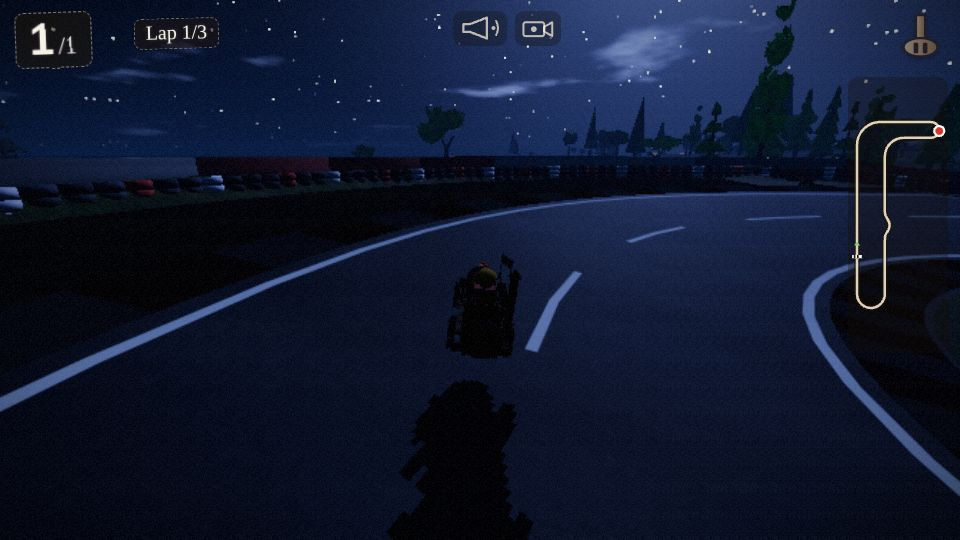
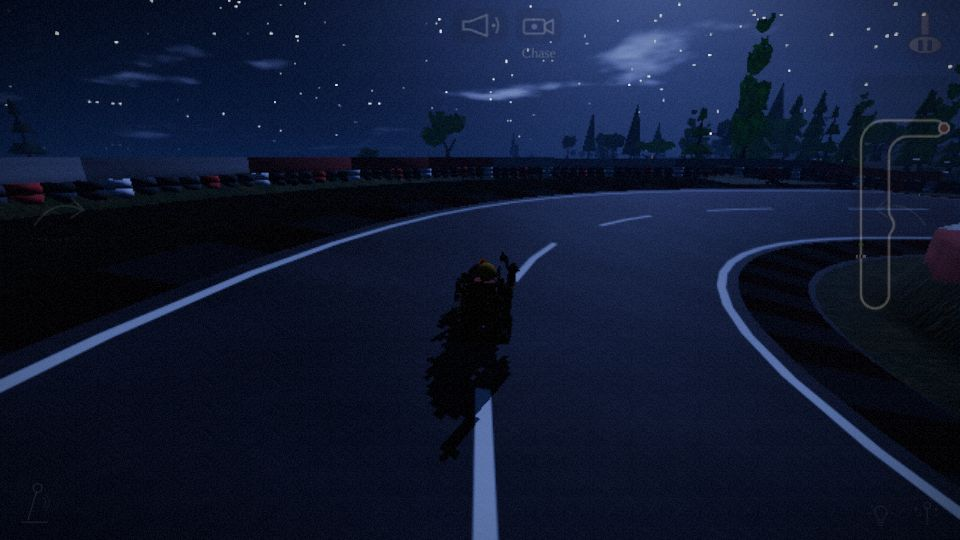
Map round 3: corn fixes (lane dish, props off wall zone, corn look, bays, mud) + WIP others
Claude-Session: https://claude.ai/code/session_01VQdijxiDxB1XrGopiSbUaQ

diff --git a/src/scene/tracks/village.js b/src/scene/tracks/village.js
@@ -69,7 +69,7 @@ export function planVillage(seed) {
         const pts = [[A0.px, A0.pz], [A.px, A.pz]];
         const nseg = 6;
         for (let k = 1; k < nseg; k++) {
-          const u = k / nseg, wig = pd.kind === 'alley' ? (k % 2 ? 3.5 : -3.5) * Math.sin(Math.PI * u) : 0;
+          const u = k / nseg, wig = pd.kind === 'alley' ? (k % 2 ? 2.2 : -2.2) * Math.sin(Math.PI * u) : 0;
           const bulge = amp * Math.sin(Math.PI * u) ** 1.3;
           pts.push([A.px + chord[0] * u + nx * (bulge + wig), A.pz + chord[1] * u + nz * (bulge + wig)]);
         }
@@ -86,7 +86,7 @@ export function planVillage(seed) {
         yFn: (s, x, z, total) => yMain(fromS + (clamp(s, 0, total) / total) * (toS - fromS)),
         widthFn: (s, kap, total) => lerp(MAIN_W, w0, smoothstep(0, 28, s) * smoothstep(0, 28, total - s)), camberFn: () => 0,
       });
-      road.surf = pd.kind === 'alley' ? { type: 'cobble', friction: 0.8, drag: 0.02, bump: 0.3 } : pd.kind === 'river' ? { type: 'cobble', friction: 0.86, drag: 0.0, bump: 0.1 } : { type: 'cobble', friction: 0.8, drag: 0.02, bump: 0.22 };
+      road.surf = pd.kind === 'alley' ? { type: 'cobble', friction: 0.95, drag: 0.0, bump: 0.08 } : pd.kind === 'river' ? { type: 'cobble', friction: 0.86, drag: 0.0, bump: 0.1 } : { type: 'cobble', friction: 0.8, drag: 0.02, bump: 0.22 };
       road.kind = pd.kind;
       branches.push({ road, splitId: sp.id, pathIndex, fromS, toS, name: pd.name, note: pd.note });
       for (let k = 0.3; k <= 0.7; k += 0.2) { road.atS(road.length * k, mq); builtMid.push([mq.px, mq.pz]); }
@@ -127,6 +127,13 @@ export function planVillage(seed) {
     }
   };
   main.field = createHazardField(main, seed + 11, { order: ['puddle', 'rock', 'puddle', 'stall', 'rock', 'puddle'], start: 190, startJit: 25, gap1: 55, gap2: 60, endGap: 110, stallEdge: true, noStall: SPLITS.flatMap((sp) => [[sp.fromS - 30, sp.fromS + 115], [sp.toS - 115, sp.toS + 30]]) });
+  main.field.zones.forEach((z, zi) => {   // main-street stalls: all props on ONE kerb side (a clear 4 m lane on the other) instead of a zig-zag chicane that trapped the AI
+    if (z.kind !== 'stall') return;
+    const side = zi % 2 ? 1 : -1;
+    for (const ob of z.obstacles) { ob.d = side * Math.abs(ob.d); ob.r *= 0.9; }
+    z.lateral = side * (z.hw - 1.0); z.b = 1.1;
+    const hh = main.field.hazards[zi]; hh.lateral = z.lateral; hh.halfWidth = z.b;
+  });
   addHaz(main, main.field);
   const softRocks = (f) => { for (const z of f.zones) if (z.kind === 'rock') { z.bump = 0.5; z.friction = 0.84; } };   // visible rubble, but not a speed trap
   softRocks(main.field);
@@ -137,12 +144,17 @@ export function planVillage(seed) {
         : { order: ['puddle', 'puddle', 'rock'], start: 45, startJit: 15, gap1: 60, gap2: 30, endGap: 40 };
     b.road.field = createHazardField(b.road, seed + 31 + b.road.id, opts);
     softRocks(b.road.field);
+    if (kind === 'alley') for (const z of b.road.field.zones) {   // gentle steps / rubble: a sloppy line must not stop the cart; the alley is the fast, direct route
+      if (z.kind === 'steps') { z.a = 3.2; z.stairH = 0.045; z.bump = 0.3; z.drag = 0.0; z.friction = 0.84; }
+      if (z.kind === 'rock') { z.bump = 0.35; z.friction = 0.86; z.drag = 0.02; }
+    }
     addHaz(b.road, b.road.field);
   }
 
   // ---- terrain verge: vertical kerb (0.13 m) + a short pavement, then a steep wall (house plinths / garden walls / parapets) ----
   const WALL = 2.1, OUT = 9, LOW = 0.9, LOWR = 0.5;   // LOWR: river-side parapet (low enough to see the water from the cockpit)
   const lowEdge = (road, s, sg) => {   // 0..1: how far the street edge is a low parapet instead of a full wall (market square middle third, river side)
+    if (!road.kind) return Math.max(1 - smoothstep(60, 80, s), smoothstep(LEN - 55, LEN - 35, s));   // start / finish straights: low wall, the crowd stands behind it
     if (road.kind === 'market') { const u = s / road.length; return smoothstep(0.2, 0.3, u) * (1 - smoothstep(0.7, 0.8, u)); }
     if (road.kind === 'river' && sg === road.riverSide) { const wr = road.waterRun; return wr ? smoothstep(wr[0] + 4, wr[0] + 28, s) * (1 - smoothstep(wr[1] - 28, wr[1] - 4, s)) : 0; }
     return 0;
@@ -477,12 +489,12 @@ export function planVillage(seed) {
       // loose cobbles / rubble scattered over bumpy "rock" and step zones
       for (const z of road.field.zones) {
         if (z.kind !== 'rock' && z.kind !== 'steps') continue;
-        const n = z.kind === 'rock' ? 22 : 5;
+        const n = z.kind === 'rock' ? 9 : 5;
         for (let i = 0; i < n; i++) {
           const ds = (rnd() - 0.5) * z.a * 1.4, dd = z.lateral + (rnd() - 0.5) * 2 * Math.min(z.b, road.atS(z.s, pp).hw) * 0.85;
           road.atS(z.s + ds, pp); const x = pp.px + pp.rhx * dd, zz = pp.pz + pp.rhz * dd, y = terrain.heightAt(x, zz);
-          const prog = road.map ? road.map.fromS + ((z.s + ds) / road.map.len) * (road.map.toS - road.map.fromS) : z.s + ds, sc = (z.kind === 'rock' ? 0.2 + rnd() * rnd() * 0.5 : 0.16 + rnd() * 0.2), g = 0.5 + rnd() * 0.32;
-          batchOf(prog).add('concrete', boxG(sc, sc * (z.kind === 'rock' ? 0.7 : 0.45), sc * 0.8, 1), xf(x, y + sc * (z.kind === 'rock' ? 0.18 : 0.1), zz, rnd() * 0.5, rnd() * 3, rnd() * 0.5), [g, g * 0.97, g * 0.92]);
+          const prog = road.map ? road.map.fromS + ((z.s + ds) / road.map.len) * (road.map.toS - road.map.fromS) : z.s + ds, sc = (z.kind === 'rock' ? 0.3 + rnd() * 0.32 : 0.16 + rnd() * 0.2), g = 0.42 + rnd() * 0.3;
+          batchOf(prog).add('concrete', z.kind === 'rock' ? sphG(sc * 0.62, 6, 4, 1) : boxG(sc, sc * 0.45, sc * 0.8, 1), z.kind === 'rock' ? xf(x, y + sc * 0.2, zz, rnd() * 0.6, rnd() * 3, rnd() * 0.6, 1, 0.75, 0.9) : xf(x, y + sc * 0.1, zz, rnd() * 0.5, rnd() * 3, rnd() * 0.5), [g, g * 0.97, g * 0.92]);
         }
       }
     }
@@ -516,8 +528,9 @@ export function planVillage(seed) {
     const bunt = (i) => ({ col: [[0.9, 0.2, 0.2], [0.95, 0.95, 0.9], [0.2, 0.4, 0.8], [0.95, 0.75, 0.2]][i % 4], wdt: 0.3, hgt: 0.45 });
     const upv = new THREE.Vector3(0, 1, 0), tmpV = new THREE.Vector3();
     const SPECT = [[0.85, 0.25, 0.2], [0.2, 0.4, 0.75], [0.9, 0.75, 0.2], [0.3, 0.6, 0.35], [0.85, 0.5, 0.7], [0.95, 0.95, 0.9], [0.45, 0.3, 0.2]];
+    let crowdSc = 0;
     function person(b, x, y, z, yaw, wave) {   // small static villager: legs/body, head, arms (one raised when waving)
-      const c = SPECT[Math.floor(rnd() * SPECT.length)], sc = 0.9 + rnd() * 0.2, M = xf(x, y, z, 0, yaw, 0, sc), L = (m) => M.clone().multiply(m);
+      const c = SPECT[Math.floor(rnd() * SPECT.length)], sc = (crowdSc || 0.9) + rnd() * 0.2 * (crowdSc ? 0.5 : 1), M = xf(x, y, z, 0, yaw, 0, sc), L = (m) => M.clone().multiply(m);
       b.add('dark', cylG(0.2, 0.26, 0.85, 6, 1), L(xf(0, 0.42, 0)), [0.2, 0.2, 0.28]);
       b.add('dark', cylG(0.24, 0.2, 0.6, 6, 1), L(xf(0, 1.15, 0)), c);
       b.add('dark', sphG(0.16, 6, 5, 1), L(xf(0, 1.6, 0)), [0.95, 0.76, 0.6]);
@@ -525,12 +538,14 @@ export function planVillage(seed) {
       if (wave) b.add('dark', boxG(0.09, 0.5, 0.09, 1), L(xf(0.33, 1.65, 0, 0, 0, -0.35)), c); else b.add('dark', boxG(0.09, 0.5, 0.09, 1), L(xf(0.3, 1.1, 0)), c);
     }
     const frameAt = (road, s) => { road.atS(s, pp); return { px: pp.px, py: pp.py, pz: pp.pz, hw: pp.hw, rx: pp.rhx, rz: pp.rhz, tx: pp.rhz, tz: -pp.rhx }; };
-    function crowd(sA, sB, step) {   // spectators on the wall tops behind the kerb, waving at the carts
+    function crowd(sA, sB, step) {
+      crowdSc = 0.82;   // spectators on the wall tops behind the kerb, waving at the carts
       for (const sg of [-1, 1]) for (let s = sA + rnd(); s < sB; s += step * (0.7 + rnd() * 0.6)) {
         const f = frameAt(main, s), d = sg * (f.hw + 1.45 + rnd() * 0.5), x = f.px + f.rx * d, z = f.pz + f.rz * d;
-        person(batchOf(s), x, f.py + WALL, z, Math.atan2(-sg * f.rx, -sg * f.rz) + (rnd() - 0.5) * 0.7, rnd() < 0.45);
+        person(batchOf(s), x, f.py + wallTop(main, s, sg), z, Math.atan2(-sg * f.rx, -sg * f.rz) + (rnd() - 0.5) * 0.7, rnd() < 0.45);
       }
     }
+    const crowdEnd = () => { crowdSc = 0; };
     function archAt(s, text, bg, fg) {
       const f = frameAt(main, s), b = batchOf(s), R = new THREE.Vector3(f.rx, 0, f.rz), T = new THREE.Vector3(f.tx, 0, f.tz);
       const M = new THREE.Matrix4().makeBasis(R, upv, T.clone().negate()).setPosition(f.px, f.py, f.pz), L = (m) => M.clone().multiply(m), half = f.hw + 0.75;
@@ -554,10 +569,10 @@ export function planVillage(seed) {
     }
     // start: gate beyond the front row, crowd on both walls, a house closing the view behind the grid
     archAt(32, 'START', '#f4f1e6', '#b3261e');
-    crowd(-30, 70, 1.6);
+    crowd(-30, 70, 1.6); crowdEnd();
     // finish: arch + banner + bigger crowd, town hall closing the view past the end of the street
     archAt(LEN, 'FINISH', '#f4f1e6', '#111111');
-    crowd(LEN - 45, LEN + 35, 1.3);
+    crowd(LEN - 45, LEN + 35, 1.3); crowdEnd();
     {
       const clo = (sEnd, dir, w, floors) => {   // building straddling the street axis just beyond the last road sample, front facing the street
         const f = frameAt(main, sEnd), T = new THREE.Vector3(f.tx, 0, f.tz).multiplyScalar(dir), R = new THREE.Vector3(f.rx, 0, f.rz).multiplyScalar(-dir);
@@ -682,8 +697,8 @@ export function planVillage(seed) {
           road.atS(sx, pp); const d = rs * (pp.hw + WB + 2.2), x = pp.px + pp.rhx * d, z = pp.pz + pp.rhz * d, y = pp.py - 0.5, b = batchOf(progOf(road, sx)), cl = reg.clear(x, z);
           if (cl < 2.5) continue;
           b.add('woodWeathered', cylG(0.22, 0.42, 3.4, 6, 1), xf(x, y + 1.7, z, 0, 0, 0.08), [0.36, 0.3, 0.24]);
-          b.add('dark', sphG(1.9, 7, 5, 1), xf(x, y + 4.2, z, 0, 0, 0, 1, 0.62, 1), [0.1, 0.17, 0.07]);
-          for (let i = 0; i < 9; i++) { const a = i * 0.698 + sx, rr = 1.6 + 0.3 * ((i * 7) % 3); b.add('dark', sphG(1, 5, 4, 1), xf(x + Math.cos(a) * rr, y + 2.6, z + Math.sin(a) * rr, 0, 0, 0, 0.5, 1.75, 0.5), i % 2 ? [0.1, 0.16, 0.07] : [0.14, 0.21, 0.09]); }
+          b.add('dark', sphG(1.9, 7, 5, 1), xf(x, y + 4.3, z, 0, 0, 0, 1, 0.55, 1), [0.04, 0.08, 0.03]);
+          for (let i = 0; i < 16; i++) { const a = i * 0.39 + sx, rr = 1.5 + 0.35 * ((i * 7) % 3); b.add('dark', sphG(1, 4, 4, 1), xf(x + Math.cos(a) * rr, y + 2.9, z + Math.sin(a) * rr, 0, 0, 0, 0.2, 1.9, 0.2), i % 2 ? [0.04, 0.08, 0.03] : [0.06, 0.11, 0.04]); }
         }
       } else if (k === 'market') {
         const apron = [], aI = []; let rows = 0;
@@ -732,14 +747,16 @@ export function planVillage(seed) {
           road.atS(sx, pp); const d = sg * (pp.hw + ROW + 0.4);
           batchOf(progOf(road, sx)).add('woodWeathered', boxG(0.22, h + 2.2, 0.22, 1), xf(pp.px + pp.rhx * d, pp.py + (h - 2.2) / 2, pp.pz + pp.rhz * d), [0.42, 0.3, 0.2]);
         };
+        const beamFree = (sx) => { road.atS(sx, pp); for (const e of [-1, 1]) for (const dd of [pp.hw + 0.5, pp.hw + 1.6]) if (reg.clear(pp.px + pp.rhx * e * dd, pp.pz + pp.rhz * e * dd, road.id) < 2.5) return false; return true; };   // no beams / washing lines where Main Street or another lane runs close
         for (let sx = 13 + rnd() * 4, n = 0; sx < road.length - 13; sx += 12 + rnd() * 5, n++) {
           road.atS(sx, pp); const yaw = Math.atan2(-pp.rhz, pp.rhx), M = xf(pp.px, pp.py, pp.pz, 0, yaw, 0), L = (m) => M.clone().multiply(m), hw2 = pp.hw + ROW + 0.35, b = batchOf(progOf(road, sx));
           if (reg.clear(pp.px, pp.pz, road.id) < 1) continue;   // not in a junction mouth
+          if (!beamFree(sx)) continue;
           const bh = 4.3 + 0.15 * (n % 2);
           b.add('woodWeathered', boxG(2 * hw2 + 0.9, 0.2, 0.24, 1), L(xf(0, bh, 0)), [0.4, 0.28, 0.18]);
           for (const e of [-1, 1]) { b.add('woodWeathered', boxG(1.3, 0.13, 0.16, 1), L(xf(e * (hw2 - 0.55), bh - 0.45, 0, 0, 0, -e * 0.7)), [0.38, 0.27, 0.18]); if (!inSpan(road, e, sx)) post(sx, e, bh + 0.1); }
           const sl = sx + 6;   // washing line between beams
-          if (sl < road.length - 10) {
+          if (sl < road.length - 10 && beamFree(sl)) {
             for (const e of [-1, 1]) if (!inSpan(road, e, sl)) post(sl, e, 5.0);
             crossStreet(road, sl, 4.9, 0.55, () => ({ col: [[0.95, 0.95, 0.9], [0.9, 0.5, 0.5], [0.5, 0.65, 0.9], [0.95, 0.85, 0.5], [0.4, 0.7, 0.45]][Math.floor(rnd() * 5)], wdt: 0.42, hgt: 0.85 }), 0.4);
           }

diff --git a/src/main.js b/src/main.js
@@ -251,7 +251,7 @@ async function boot() {
 
   const actorPos = [];
   // outside cameras stay inside the road corridor on maps whose walls are meshes (heightfield marching cannot see them)
-  const CAM_MARGIN = { corn: 0.9, circuit: 3.0, village: 0.3 };
+  const CAM_MARGIN = { corn: 1.35, circuit: 3.0, village: 0.3 };   // corn: wall face is at hw + 1.6, minus the camera radius
   // measured in the cart's own street: the camera's along-road position is cart.s + (cam - cart).tangent, its lateral comes from that street's frame
   // (so a camera beside a junction or inside a house is judged against the right road). Allowed lateral: max(hw + margin, |cartLat| + 1.5).
   function camClamp(v, hint) {
@@ -266,8 +266,23 @@ async function boot() {
     const sm = world.track.sampleAt(sCam, ch);
     const L2 = (v.x - sm.position.x) * sm.right.x + (v.z - sm.position.z) * sm.right.z;
     const hwC = builtFor === 'circuit' ? (sm.width || 6) / 2 : Math.min(sm.width || 6, c0.width || 6) / 2;   // lanes: the narrower of camera / cart half-width (bay corners)
-    const lim = Math.max(hwC + m, Math.abs(pr.lateral) + 1.5);
+    // narrowest half-width between camera and cart (bay ramps / junction mouths), sampled every 6 m
+    let hwN = hwC;
+    if (builtFor !== 'circuit') { const n = Math.min(6, Math.ceil(Math.abs(sCam - pr.s) / 6)); for (let i = 1; i < n; i++) hwN = Math.min(hwN, (world.track.sampleAt(pr.s + (sCam - pr.s) * i / n, ch).width || 6) / 2); }
+    const cartOut = builtFor === 'corn' && Math.abs(pr.lateral) > hwN + 0.8;
+    const lim = cartOut ? Math.abs(pr.lateral) + 0.5 : Math.max(hwN + m, Math.abs(pr.lateral) + (builtFor === 'corn' ? 0.8 : 1.5));
     if (Math.abs(L2) > lim) { const dd = (L2 > 0 ? lim : -lim) - L2; v.x += sm.right.x * dd; v.z += sm.right.z * dd; }
+    // corn: when the cart is wedged in the field, rise above the corn instead of sitting inside it
+    if (cartOut || (builtFor === 'corn' && Math.abs(L2) > hwN + 0.9)) v.y = Math.max(v.y, cp.y + 3.4);
+    // village: a camera that ended up inside a house (outside its own street's walls) is pulled back toward the cart
+    if (builtFor === 'village') {
+      for (let i = 0; i < 5; i++) {
+        const pc = world.track.project(v, sCam); if (!pc) break;
+        const sc = world.track.sampleAt(Math.max(0, Math.min(L, pc.s)), pc.splitId != null ? { [pc.splitId]: pc.pathIndex } : undefined);
+        if (Math.abs(pc.lateral) <= (sc.width || 6) / 2 + 0.3) break;
+        v.x += (cp.x - v.x) * 0.45; v.z += (cp.z - v.z) * 0.45; v.y = Math.max(v.y, cp.y + 1.8);
+      }
+    }
   }
   let mapMain = null;
   const MAP_K = 6, MAP_MAX = 70;

diff --git a/src/ai/driver.js b/src/ai/driver.js
@@ -22,8 +22,11 @@ export function forwardXZ(q) {
 export function createAIDriver(profile, { world, rng, spec, rubberBand = 1, human, headlight } = {}) {
   // On the slower tracks the terrain, not the driver, sets the speed unless the driver holds back: tier the target speed by skill.
   const TRACK_CAP = { village: (k) => 8.2 + 7.6 * k, corn: (k) => 9.0 + 8.0 * k };
+  const PACE_K = { village: 0.45, corn: 0.45 };
   const capFn = TRACK_CAP[world.trackId];
   const flat = !!(world.flags && world.flags.flat);
+  // corn / village: the good drivers dig in harder (a solid human paddler out-paces them otherwise); the back of the field is untouched
+  const paceK = capFn ? 1 + (PACE_K[world.trackId] ?? 0.45) * Math.max(0, (profile.skill ?? 0.5) - 0.3) : 1;
   // flat circuit: nothing but paddling moves a cart, so the speed ladder is compressed (the back of the field must not get lapped)
   const FC = 9.8, FK = 0.8;
   const capOf = (c) => (flat ? FC + (c - 8.4) * FK : c);
@@ -223,7 +226,7 @@ export function createAIDriver(profile, { world, rng, spec, rubberBand = 1, huma
     let catchUp = 1; // flat: backmarkers dig in when the field is pulling away, so nobody gets lapped
     if (flat && others.length) { let lead = s; for (const o of others) if (o.s > lead) lead = o.s; catchUp = 1 + CU * clamp((lead - s - 100) / 250, 0, 1); }
     const standing = flat && t < 7 ? 1 + 0.3 * (1 - t / 7) : 1; // flat start: everybody is off the line promptly (the player starts mid-grid)
-    const cadence = standing * (flat ? flatCad : PD.cadence) * warm * (flat ? 0.9 + 0.1 * stamina : fat) * (flat ? 1 : burst) * rb * catchUp * (1 - 0.15 * easeK) * (PD.mode === 'optimal' ? want : 1);
+    const cadence = paceK * standing * (flat ? flatCad : PD.cadence) * warm * (flat ? 0.9 + 0.1 * stamina : fat) * (flat ? 1 : burst) * rb * catchUp * (1 - 0.15 * easeK) * (PD.mode === 'optimal' ? want : 1);
     // Physics treats paddleL/R as a one-frame impulse (like a swipe), so a stroke is a single-frame
     // pulse of height `strokeAmp`, alternating L/R at the profile cadence.
     let pv = 0;

diff --git a/src/ui/styles.js b/src/ui/styles.js
@@ -240,6 +240,14 @@ export const CSS = `
 .sbd-standings li.rolling span { font-style: italic; opacity:.7; }
 .sbd-standings li.me { color: var(--paint-red); font-weight:bold; }
 .sbd-row { display:flex; gap: calc(1.4*var(--u)); justify-content:center; flex-wrap:wrap; }
+/* short landscape (phones): place on the left, two-column standings on the right, buttons underneath; never taller than the screen */
+@media (max-height: 480px) and (orientation: landscape) {
+  .sbd-placard { display:grid; grid-template-columns: auto 1fr; grid-template-areas: "p s" "o s" "t s" "b b"; column-gap: calc(3*var(--u)); row-gap: calc(.4*var(--u)); align-items:center; padding: calc(2.4*var(--u)) calc(4*var(--u)) calc(1.6*var(--u)); max-height: calc(100% - 2*var(--sat) - 4vmin); max-width: 96%; overflow:auto; min-width: 0; }
+  .sbd-placard .sbd-place { grid-area:p; font-size: calc(12*var(--u)); } .sbd-placard .of { grid-area:o; font-size: calc(2.4*var(--u)); } .sbd-placard .time { grid-area:t; font-size: calc(2.8*var(--u)); }
+  .sbd-placard .sbd-standings { grid-area:s; grid-auto-flow: column; grid-template-rows: repeat(5, auto); grid-template-columns: none; gap: .2vmin 2.4vmin; font-size: calc(1.9*var(--u)); } .sbd-placard .sbd-standings:empty { display:none; }
+  .sbd-placard .sbd-row { grid-area:b; gap: calc(1*var(--u)); }
+  .sbd-placard .sbd-ribbon { display:none !important; }
+}
 
 .sbd-bunting { position:fixed; left:0; right:0; top:calc(var(--sat) - 1vmin); height: calc(11*var(--u)); pointer-events:none; transform-origin: top; animation: sbd-swing .9s cubic-bezier(.3,1.4,.5,1) both; z-index:3; }
 .sbd-bunting svg { width:100%; height:100%; filter: drop-shadow(0 .5vmin .5vmin rgba(0,0,0,.4)); }

diff --git a/src/scene/tracks/circuit.js b/src/scene/tracks/circuit.js
@@ -544,12 +544,12 @@ export function planCircuit(seed) {
         }
         for (let r = 0; r < rows - 1; r++) for (let k = 0; k < COLS - 1; k++) { const i0 = base + r * COLS + k; idx.push(i0, i0 + COLS, i0 + 1, i0 + 1, i0 + COLS, i0 + COLS + 1); }
       };
-      strip(0, LAP, 4, () => [0.06, 0.08, 0.13]);   // cool fill so carts never read as black cut-outs
+      strip(0, LAP, 4, () => [0.11, 0.14, 0.22]);   // cool fill so carts never read as black cut-outs
       for (const [ts] of towerS) {
         const R = 26;
         strip(ts - R, ts + R, 2, (s, u, um) => {
           const a = Math.abs(s - ts) / R, f = a >= 1 ? 0 : (1 + Math.cos(Math.PI * a)) * 0.5, lat = 1 - 0.45 * u * u, hp = 1 - 0.55 * smoothstep(0.02, 0.04, Math.abs(kapAt(um)));
-          const v = 0.42 * f * f * lat * hp; return [v, v * 0.84, v * 0.6];
+          const v = 0.8 * f * f * lat * hp; return [v, v * 0.84, v * 0.6];
         });
       }
       const g = new THREE.BufferGeometry(); g.setAttribute('position', new THREE.Float32BufferAttribute(Pa, 3)); g.setAttribute('color', new THREE.Float32BufferAttribute(Ca, 3)); g.setIndex(idx); g.computeBoundingSphere(); return g;

diff --git a/src/scene/tracks/corn.js b/src/scene/tracks/corn.js
@@ -492,7 +492,6 @@ export function planCorn(seed) {
       for (const c of BAY_C) for (const sg of [-1, 1]) {
         const s = c - BAY_HALF - BAY_RAMP - 3, s2 = c - BAY_HALF - BAY_RAMP - 42;
         const s3 = c - BAY_HALF - BAY_RAMP + 1;   // entry of the ramp: big board standing above the bank
-        if (!(inClearing(s, sg) || sunW(s, sg) > 0.1)) sign(grp, b, 'PASSING BAY', s, sg, '#2f6fb0', '#fff7e0', 1.9, 0.62, 1.3, 1.45, 0.2);
         if (!(inClearing(s2, sg) || sunW(s2, sg) > 0.1 || openAt(s2, sg).w > 0.2)) sign(grp, b, 'PASSING BAY 40m >>', s2, sg, '#2f6fb0', '#fff7e0', 3.0, 0.95, 1.5, 1.45, 0.2);
         if (!(inClearing(s3, sg) || sunW(s3, sg) > 0.1 || openAt(s3, sg).w > 0.2)) sign(grp, b, 'PASSING BAY >>', s3, sg, '#f2c230', '#1d2d6b', 3.4, 1.15, 1.85, 1.05, 0.14);
       }

diff --git a/src/scene/hazards.js b/src/scene/hazards.js
@@ -124,7 +124,7 @@ export function createHazardField(track, seed = 1, opts = {}) {
           o.cut += w * z.dip;
           if (z.stones) for (const st of z.stones) { const dd = Math.hypot(s - st.s, d - st.d); if (dd < st.r) o.lift += st.h * (1 - smoothstep(0.35, 1, dd / st.r)); }
         }
-      } else if (z.stairs) { o.lift += w * 0.1 * (Math.sin(s * 3.4) > 0.2 ? 1 : 0); }
+      } else if (z.stairs) { o.lift += w * (z.stairH ?? 0.1) * (Math.sin(s * 3.4) > 0.2 ? 1 : 0); }
       else o.lift += w * (-z.dip + z.bumpAmp * (0.6 * nz.n2(s * 1.7 + z.seed, d * 2.1) + 0.4 * nz.n2(s * 4.3, d * 5.1)));
     }
     return o;
